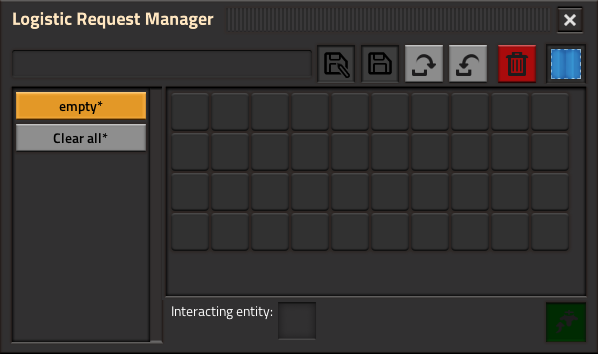
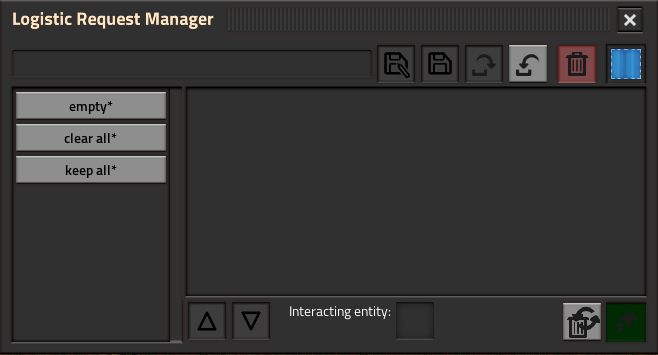
help updated and extended
- gifs updated
- moving of presets added
- adding / clearing empty rows added

diff --git a/README.md b/README.md
@@ -155,8 +155,22 @@ Blueprint(books) containing more than 40 items will not be applied and an error-
 - Have the mods GUI open.
 - Select the preset to delete.
 - Delete the preset by clicking the red button with the trash-bin.
-**There is no undo function for this.**
+<br>**There is no undo function for this.**
 ![07_delete_a_preset](https://github.com/Daeruun/LogisticRequestManager/blob/master/man/07_delete_a_preset.gif?raw=true)
+
+## To move a preset
+- Have the mods GUI open.
+- Select the preset to move.
+- Right to the lower end of the preset list there are two buttons with an arrow that can be used to move the current preset up or down.
+- The pre-defined presets cannot be moved.
+![08_move_a_preset](https://github.com/Daeruun/LogisticRequestManager/blob/master/man/08_move_a_preset.gif?raw=true)
+
+## To add or remove an empty row from a preset
+- Have the mods GUI open.
+- Select the preset to modify.
+- On the right end of each line with used slots is a button with a trashbin that can be used to remove this line. 
+- If a line contains only empty slots, the button contains a plus and can be used to add a row of empty slots above this line.
+![09_add_or_remove_empty_line](https://github.com/Daeruun/LogisticRequestManager/blob/master/man/09_add_or_remove_empty_line.gif?raw=true)
 
 ## Commands
 At the moment one command with some valid parameters exists.
